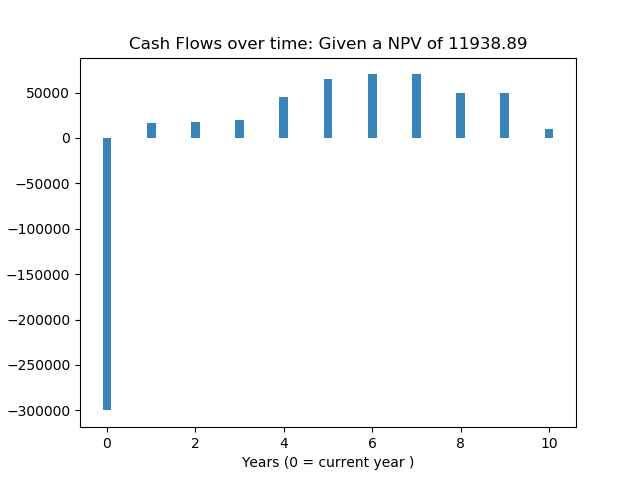
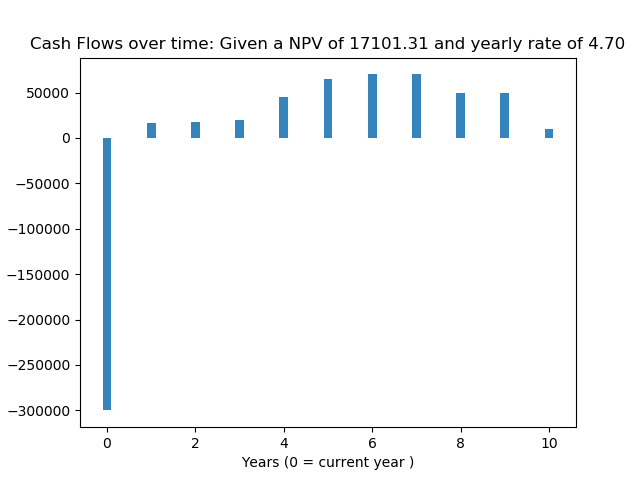
Restructured files and added VRM

Changed region(s): [[0.0625, 0.0625, 0.9688, 0.125]]

diff --git a/src/VRM/VRM_np.py b/src/VRM/VRM_np.py
@@ -1,0 +1,72 @@
+'''
+Utility Python program to generate a Value Realization Model.
+It uses a simple model to predict the probability of a high value or a
+low value for a stock given the sequence of buys(asks being lifted) or sells(bids being hit).
+The script will prompt the user to enter a sequence of buy(s)/sell(s) with trade prices like `bbssbs` or `BSBSBB`.
+Buy/sell sequences can also be entered through a text file containing these sequences as
+the first command line argument to the script_name.
+'''
+import os
+import sys
+import matplotlib.pyplot as plt
+
+# function to parse and load buy/sell sequences into a string trade_seq_holder
+def f_trade_seq_read ( fp, trade_seq_holder ):
+    for seq in fp:
+        seq = seq.lower().strip()
+        seq = seq.replace( ' ', '' )
+        trade_seq_holder += seq
+    return trade_seq_holder
+
+trade_seq = ''
+# if no args are entered
+if len(sys.argv) == 1:
+    trade_seq = (input('Enter the trade sequence (Format bssbssbbb) :')).lower().replace(' ', '')
+# if a file containing the buy sell sequences are entered
+elif len(sys.argv) == 2:
+    f_trade_seq = open(sys.argv[1], 'r')
+    trade_seq = f_trade_seq_read( f_trade_seq, trade_seq )
+    f_trade_seq.close()
+else:
+    print('Invalid number of argument(s) supplied: Usage VRM.py <Optional-f_trade_seq.txt>')
+    sys.exit()
+
+# trade seq error checking for invalid inputs
+for trade in trade_seq:
+    if trade != 'b' and trade != 's':
+        print('Invalid sequence of buys/sells ( Usage b = buy, s = sell ):')
+        sys.exit()
+
+# printing information on model
+print("\nValue here is the end of day closing price unknown to everyone except informed traders.")
+print("At the start of the day, the final value of the stock is unknown and has a 50/50 chance of being low or high")
+print("Informed traders will always buy if the actual value is high and always sell if it's low.")
+print("Uninformed traders have 50% chance of buying or selling regradless of the stock's final value.")
+
+# making sure a valid informed user proportion has been entered
+informed_prop = 0
+while True:
+    informed_prop = float(input("\nEnter the assumed proportion of informed traders in the market (i.e. 0.0 to 1.0):"))
+    if informed_prop <= 1.0 and informed_prop >= 0.0:
+        break
+    print('Incorrect propertions entered. Try again.')
+
+print('\nThe main sequence of high/low value probabilities for all the trades is generated as high_low_prob chart.')
+print('The flowcharts showing the sequencing of random events for each trade are generated in a fig_output folderself. \
+\nMake sure there are no folders in the fig_output_folder.')
+
+# creating a output folder
+output_folder_path = 'fig_output'
+if not os.path.exists(output_folder_path):
+    os.makedirs( output_folder_path)
+os.chdir(output_folder_path)
+
+# generating a list of all old files in the output_folder_path directory
+old_file_list = os.listdir('./')
+for file in old_file_list:
+    os.remove(file)
+
+
+
+print( informed_prop )
+print( trade_seq )

diff --git a/src/DCF/DCF.py b/src/DCF/DCF.py
@@ -27,7 +27,7 @@ def presentVal ( futureVal, rate, time ):
 #  2,    1600
 
 fp = open( sys.argv[1], 'r')                                # CSV file must be entered as a cmd line argument
-d_rate = int(input("Enter discount rate per year: "))       # Discount rate entered as a percentage
+d_rate = float(input("Enter discount rate per year (i.e. 5):"))       # Discount rate entered as a percentage
 
 header = fp.readline().strip().split(',')                   # Generate header, a list containing the first two elems of the CSV file
 npv = 0                                                     # Net Present Value
@@ -46,7 +46,7 @@ for line in fp:
 npCF = np.array(cashFlowList)
 
 # Creating a bar chart showing the cash flows overtime
-plt.title("Cash Flows over time: Given a NPV of %.2f" % (npv))
+plt.title("Cash Flows over time: Given a NPV of %.2f and yearly rate of %.2f" % (npv, d_rate))
 plt.xlabel('Years (0 = current year )')
 plt.ylabel('Cash flow ($)')
 plt.bar(npCF[:,0], npCF[:,1], alpha=0.9, width=0.2 )

diff --git a/src/VRM/VRM_p.py b/src/VRM/VRM_p.py
@@ -1,0 +1,25 @@
+'''
+Utility Python program to generate a Value Realization Model.
+It uses a simple model to predict the probability of a high value or a
+low value for a stock given the sequence of buys(asks being lifted) or sells(bids being hit).
+The script will prompt the user to enter a sequence of buy(s)/sell(s) with trade prices like `bbssbs` or `BSBSBB`.
+Buy/sell sequences can also be entered through a text file containing these sequences as
+the first command line argument to the script_name.
+'''
+import sys
+import matplotlib.pyplot as plt
+
+trade_seq = ''
+if len(sys.argv) == 1:
+    trade_seq = (input('Enter the trade sequence (Format bssbssbbb) :')).lower()
+elif len(sys.argv) == 2:
+    f_trade_seq = open(sys.argv[1], 'r')
+    for seq in f_trade_seq:
+        seq = seq.lower().strip()
+        trade_seq += seq
+    f_trade_seq.close()
+else:
+    print('Invalid number of argument(s) supplied: Usage VRM.py <Optional-f_trade_seq.txt>')
+    sys.exit()
+    
+print( trade_seq )
